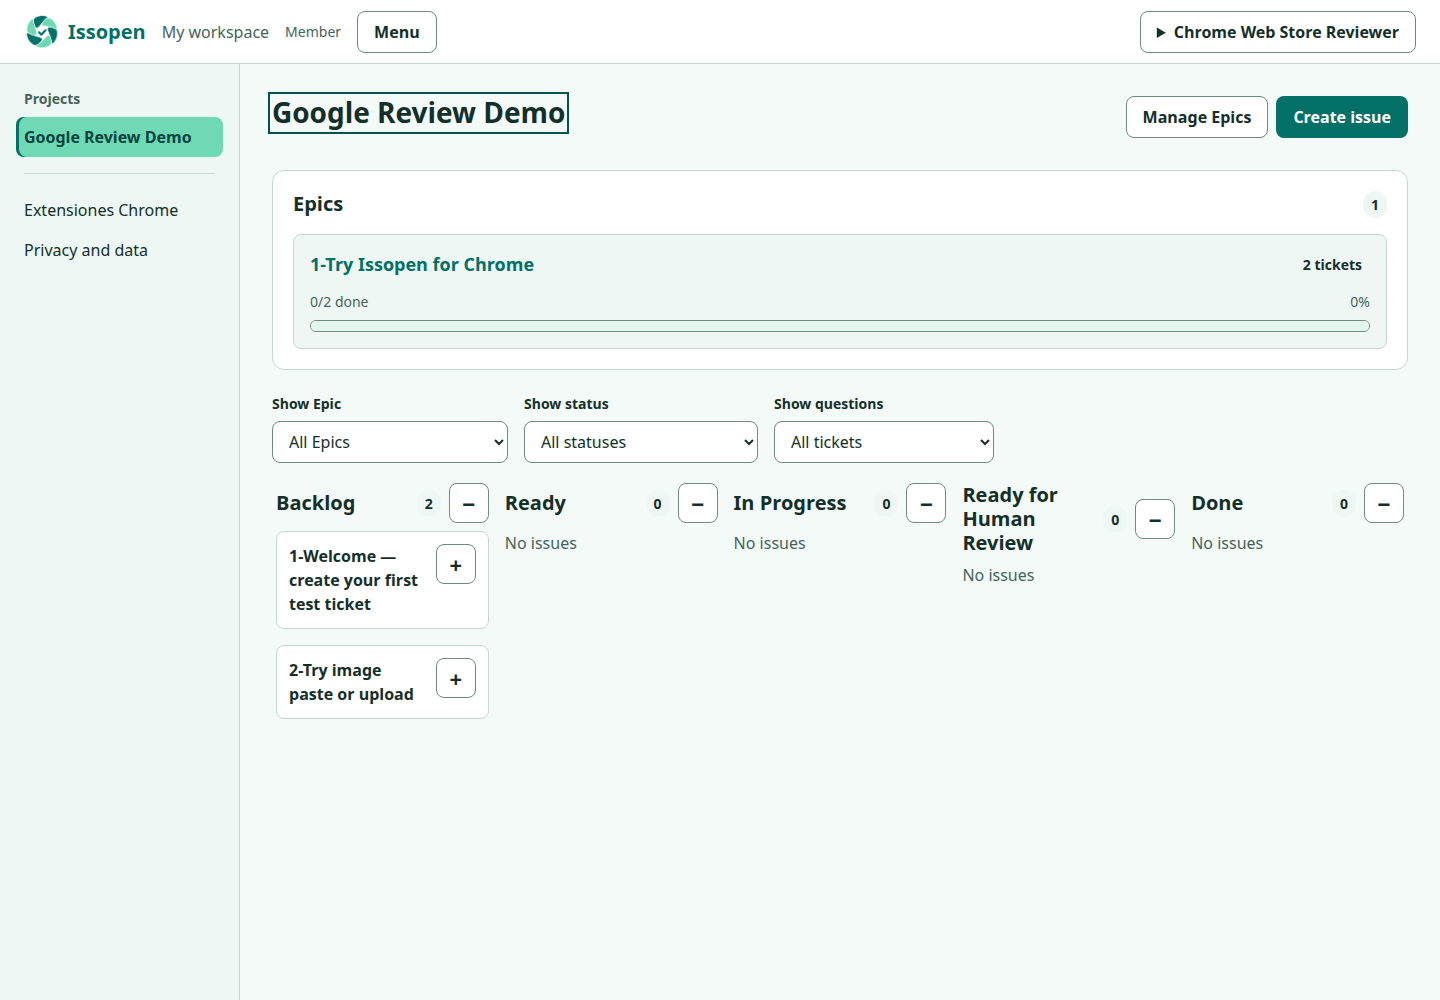
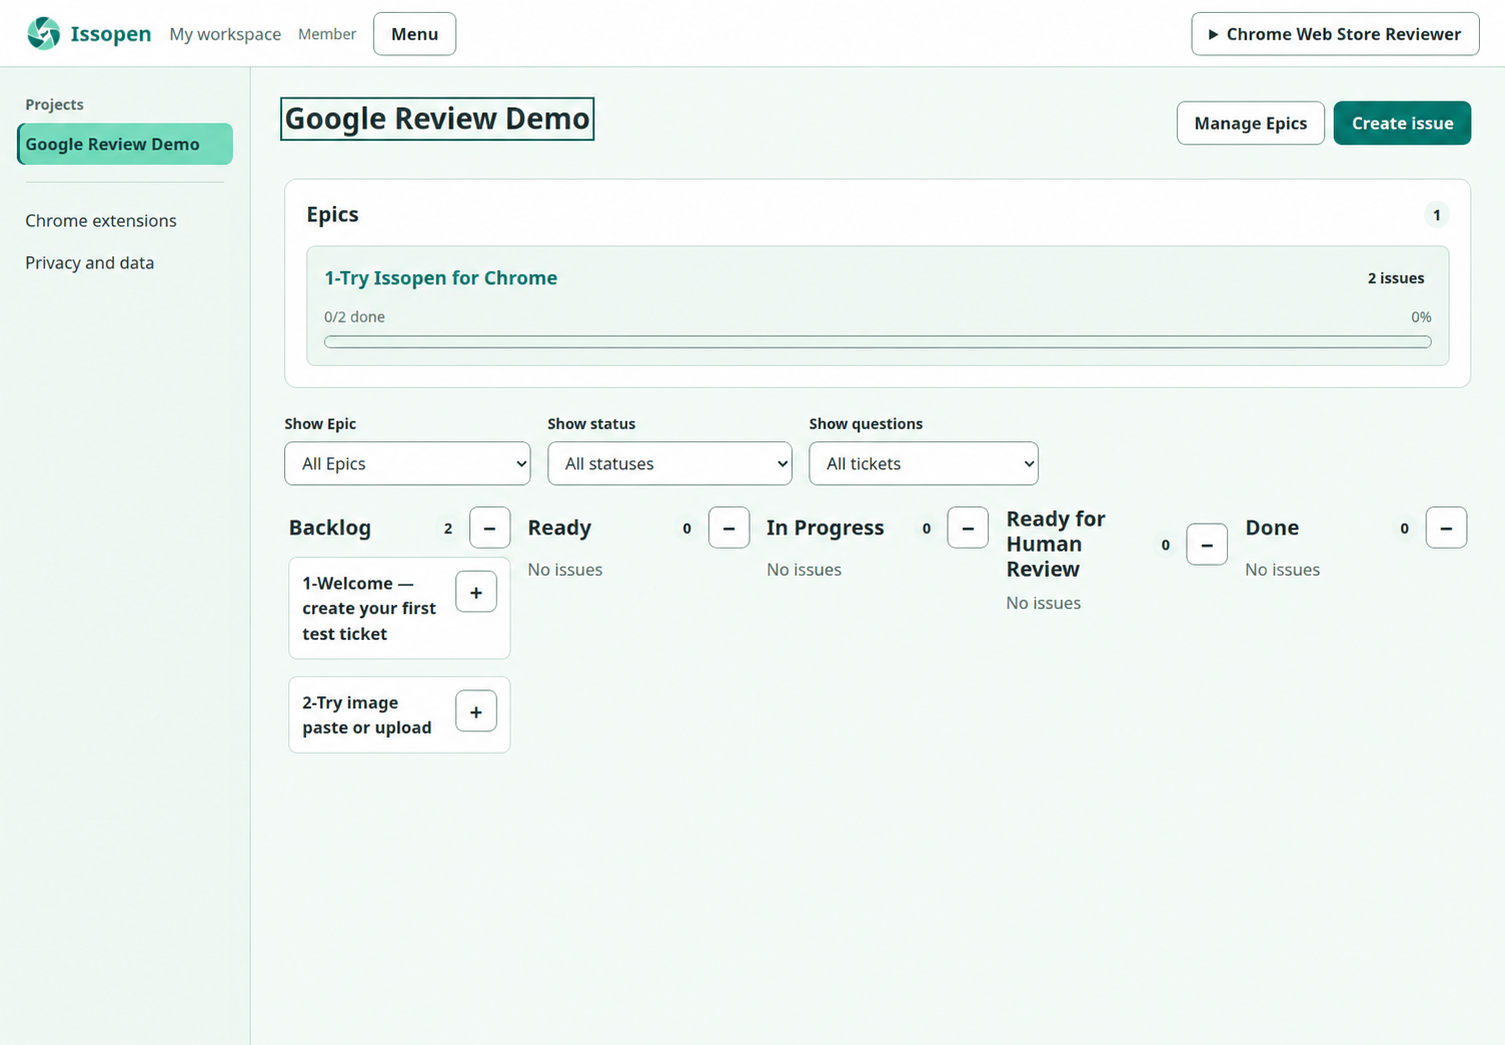
feat(landing): show English product screenshots

diff --git a/landing/index.html b/landing/index.html
@@ -132,8 +132,8 @@
             </div>
             <img
               src="assets/issopen-board.png"
-              width="1440"
-              height="1000"
+              width="1505"
+              height="1045"
               alt="Issopen board showing an Epic and tickets moving through the workflow"
             >
           </div>
@@ -301,8 +301,8 @@
             </div>
             <img
               src="assets/issopen-extension.png"
-              width="1440"
-              height="1000"
+              width="1505"
+              height="1045"
               loading="lazy"
               alt="Issopen Chrome extension confirming a newly created ticket with an attachment"
             >

diff --git a/landing/styles.css b/landing/styles.css
@@ -1014,9 +1014,10 @@ a {
 }
 
 .extension-frame img {
-  width: 170%;
+  width: 190%;
+  height: auto;
   max-width: none;
-  transform: translateX(-20.6%);
+  transform: translateX(-23.7%);
 }
 
 .control-section {
@@ -1640,6 +1641,11 @@ a {
 
   .capture-copy h2 {
     font-size: clamp(2.4rem, 12vw, 3.8rem);
+  }
+
+  .extension-frame img {
+    width: 220%;
+    transform: translateX(-27.3%);
   }
 
   .control-grid {
